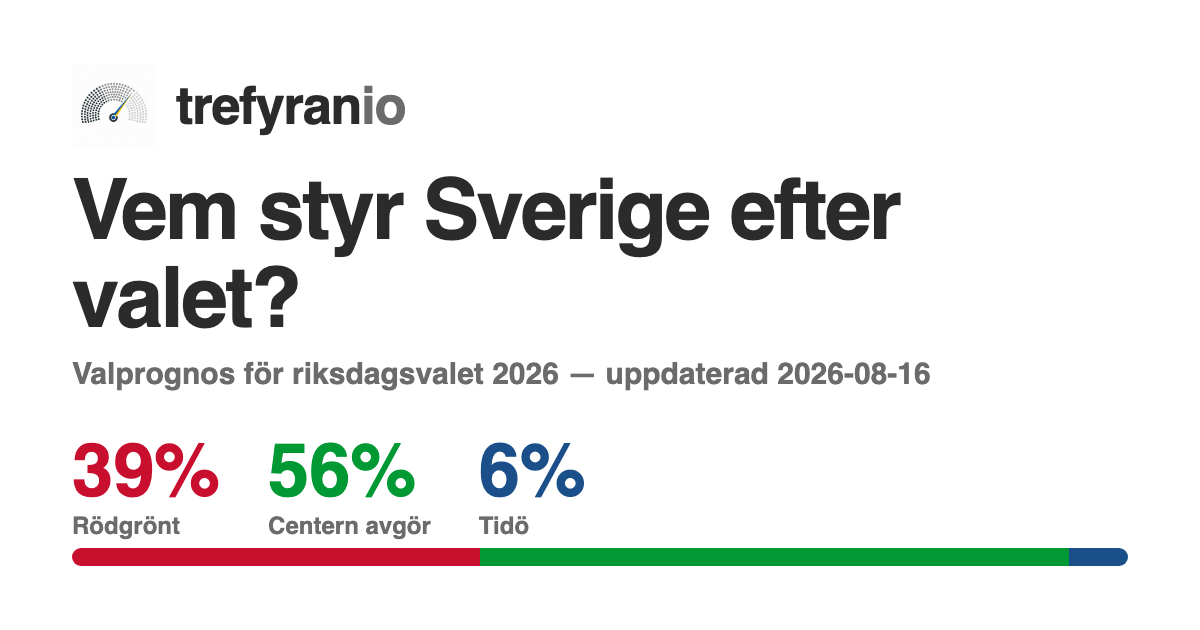
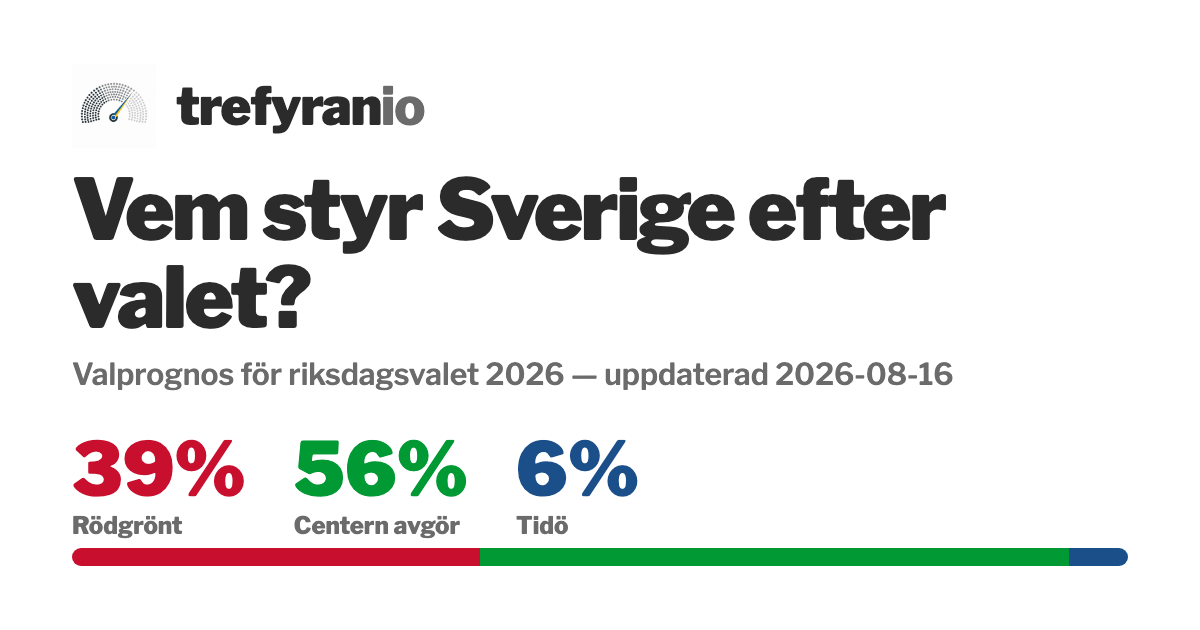
ops: count polls instead of comparing dates in the refresh guard
check_new_poll.py compared the latest field-end date against the live
forecast's, which silently skipped real polls. Novus and Sifo both ended
fieldwork on 2026-08-16; when Novus landed (n=5617) a day after Sifo was
published, the max date was unchanged and the guard said "nothing new". The
scheduled job would never have refit. Same failure whenever a lagging house
publishes a poll whose field-end is older than the newest already in the fit.

Diff on the count of cycle polls instead — it moves in every one of those
cases. web_export records it as counts.cycle_polls, computed over exactly the
rows model.py fits (cycle window, sample size present), so the guard cannot
drift from what a refit would see. A forecast.json predating the field exits 2
(undetermined) rather than guessing from dates; a shrinking spine (upstream
revision) exits 10 and asks for a human.

Also fixes the site's "latest poll" label: with a shared field-end, idxmax
picked whichever row came first, so the page credited Sifo while the
later-published Novus poll was in the fit. Tie-break on pub_date.

Tests cover the shared-field-end regression, back-filled older polls, polls
without a sample size (which the model drops), pre-cycle polls, a shrinking
spine, and the undetermined cases — plus an integration check that the
published count equals what the guard computes from the real spine.

Claude-Session: https://claude.ai/code/session_01DHY8yaE2K34i6RsauQvqzp

diff --git a/tests/test_check_new_poll.py b/tests/test_check_new_poll.py
@@ -1,0 +1,139 @@
+"""Tests for the scheduled-refresh guard (ops/check_new_poll.py).
+
+The guard decides whether the nightly job refits at all, so a false "nothing
+new" is invisible: the forecast just silently stops updating. These pin the
+cases that actually occur mid-campaign.
+"""
+
+import importlib.util
+import json
+from pathlib import Path
+
+import pandas as pd
+import pytest
+
+from trefyranio.model import CYCLE_2026
+
+REPO_ROOT = Path(__file__).resolve().parents[1]
+
+
+def _load_guard():
+    """Import ops/check_new_poll.py (a script, not a package module)."""
+    spec = importlib.util.spec_from_file_location(
+        "check_new_poll", REPO_ROOT / "ops" / "check_new_poll.py"
+    )
+    mod = importlib.util.module_from_spec(spec)
+    spec.loader.exec_module(mod)
+    return mod
+
+
+def _spine(tmp_path: Path, polls: list[tuple[str, str, float | None]]) -> Path:
+    """Write a minimal polls.parquet: [(poll_id, field_end, n), ...]."""
+    rows = [{"poll_id": pid, "field_end": pd.Timestamp(end),
+             "pub_date": pd.Timestamp(end), "n": n} for pid, end, n in polls]
+    processed = tmp_path / "processed"
+    processed.mkdir(parents=True, exist_ok=True)
+    pd.DataFrame(rows).to_parquet(processed / "polls.parquet", index=False)
+    return processed
+
+
+def _forecast(tmp_path: Path, counts: dict | None) -> Path:
+    path = tmp_path / "forecast.json"
+    body = {"updated": "2026-08-16"}
+    if counts is not None:
+        body["counts"] = counts
+    path.write_text(json.dumps(body))
+    return path
+
+
+def _run(tmp_path, spine_polls, live_counts):
+    guard = _load_guard()
+    guard.PROCESSED_DIR = _spine(tmp_path, spine_polls)
+    guard.FORECAST_JSON = _forecast(tmp_path, live_counts)
+    return guard.main()
+
+
+IN_CYCLE = str(CYCLE_2026.start)
+
+
+def test_new_poll_sharing_a_field_end_is_detected(tmp_path):
+    """Regression: Sifo and Novus both ended fieldwork 2026-08-16. The old
+    date-based guard saw an unchanged max date and skipped the Novus poll
+    entirely — the nightly job would never have refit."""
+    exit_code = _run(
+        tmp_path,
+        [("sifo", "2026-08-16", 3043.0), ("novus", "2026-08-16", 5617.0)],
+        {"cycle_polls": 1},   # live forecast was published with Sifo only
+    )
+    assert exit_code == 0
+
+
+def test_backfilled_older_poll_is_detected(tmp_path):
+    """A lagging house publishing a poll with an OLDER field-end than the
+    newest one already in the fit also left the max date untouched."""
+    exit_code = _run(
+        tmp_path,
+        [("newest", "2026-08-16", 3000.0), ("late_arrival", "2026-08-02", 1800.0)],
+        {"cycle_polls": 1},
+    )
+    assert exit_code == 0
+
+
+def test_nothing_new_skips(tmp_path):
+    exit_code = _run(tmp_path, [("a", "2026-08-16", 3000.0)], {"cycle_polls": 1})
+    assert exit_code == 10
+
+
+def test_polls_without_sample_size_are_not_counted(tmp_path):
+    """model.py drops polls with no n, so the guard must not count them —
+    otherwise it triggers a refit that changes nothing."""
+    exit_code = _run(
+        tmp_path,
+        [("a", "2026-08-16", 3000.0), ("no_n", "2026-08-18", None)],
+        {"cycle_polls": 1},
+    )
+    assert exit_code == 10
+
+
+def test_polls_before_the_cycle_are_not_counted(tmp_path):
+    exit_code = _run(
+        tmp_path,
+        [("a", "2026-08-16", 3000.0), ("old", "2019-05-05", 1000.0)],
+        {"cycle_polls": 1},
+    )
+    assert exit_code == 10
+
+
+def test_shrinking_spine_skips_rather_than_refitting(tmp_path):
+    """Upstream revision/retraction: fewer polls than published. Not new data,
+    and not something to publish automatically."""
+    exit_code = _run(tmp_path, [("a", "2026-08-16", 3000.0)], {"cycle_polls": 5})
+    assert exit_code == 10
+
+
+def test_forecast_without_cycle_polls_is_undetermined(tmp_path):
+    """A forecast.json predating the count must not be guessed at."""
+    assert _run(tmp_path, [("a", "2026-08-16", 3000.0)], {"polls": 2636}) == 2
+    assert _run(tmp_path, [("a", "2026-08-16", 3000.0)], None) == 2
+
+
+def test_missing_spine_is_undetermined(tmp_path):
+    guard = _load_guard()
+    guard.PROCESSED_DIR = tmp_path / "empty"
+    (tmp_path / "empty").mkdir()
+    guard.FORECAST_JSON = _forecast(tmp_path, {"cycle_polls": 1})
+    assert guard.main() == 2
+
+
+def test_live_forecast_records_the_count_the_model_fits():
+    """Integration: the published forecast's cycle_polls must equal what the
+    guard computes from the real spine, or the nightly job mis-triggers."""
+    parquet = REPO_ROOT / "data" / "processed" / "polls.parquet"
+    forecast = REPO_ROOT / "web" / "src" / "data" / "forecast.json"
+    if not (parquet.exists() and forecast.exists()):
+        pytest.skip("real spine / forecast not built")
+    guard = _load_guard()
+    live = (json.loads(forecast.read_text()).get("counts") or {}).get("cycle_polls")
+    if live is None:
+        pytest.skip("forecast.json predates cycle_polls")
+    assert guard.spine_cycle_polls() == live

diff --git a/ops/check_new_poll.py b/ops/check_new_poll.py
@@ -1,14 +1,27 @@
 #!/usr/bin/env python3
-"""Guard for the scheduled refresh: is there a poll newer than what's live?
+"""Guard for the scheduled refresh: is there a poll the live forecast doesn't have?
 
-Compares the latest 2026-cycle poll in the freshly-built polls.parquet against
-the ``latest_poll.date`` recorded in the committed forecast (web/src/data/
-forecast.json — the same value served publicly).
+Compares the number of 2026-cycle polls in the freshly-built polls.parquet
+against ``counts.cycle_polls`` recorded in the committed forecast
+(web/src/data/forecast.json — the same value served publicly).
+
+**Why a count and not a date.** This used to compare the latest field-end date,
+which silently skipped real polls: Novus and Sifo both ended fieldwork on
+2026-08-16, so when Novus landed a day after Sifo was published the max date was
+unchanged and the guard said "nothing new" — the scheduled job would never have
+refit. Same failure when a lagging house publishes a poll whose field-end is
+*older* than the newest one already in the fit. A count moves in every one of
+those cases; a max-date does not.
+
+The count is over exactly the rows the model fits (cycle start onward, ``n``
+present — model.py drops polls without a sample size), so it cannot drift from
+what a refit would actually see.
 
 Exit codes (so a shell `if` can branch on it):
-  0  — a newer poll exists → the caller should refit/simulate/deploy
-  10 — no new poll → the caller should stop (don't waste ~10 min refitting)
-  2  — could not determine (missing parquet/json) → caller decides
+  0  — the spine has polls the live forecast lacks → refit/simulate/deploy
+  10 — nothing new → stop (don't waste a refit reproducing the same numbers)
+  2  — could not determine (missing parquet/json, or a forecast.json predating
+       cycle_polls) → caller decides
 
 Run build_polls first so polls.parquet reflects the latest fetch.
 """
@@ -26,40 +39,53 @@ REPO_ROOT = Path(__file__).resolve().parents[1]
 FORECAST_JSON = REPO_ROOT / "web" / "src" / "data" / "forecast.json"
 
 
-def latest_cycle_poll_date() -> pd.Timestamp | None:
+def spine_cycle_polls() -> int | None:
+    """Number of cycle polls the model would fit, or None if unavailable."""
     parquet = PROCESSED_DIR / "polls.parquet"
     if not parquet.exists():
         return None
     p = pd.read_parquet(parquet)
     # field-end is the poll's true recency; fall back to pub_date when absent.
-    d = p["field_end"].fillna(p["pub_date"])
-    cycle = d.dt.date >= CYCLE_2026.start
-    if not cycle.any():
+    date = p["field_end"].fillna(p["pub_date"])
+    # Mirror model.py's filter: cycle window AND a usable sample size.
+    cycle = p[(date.dt.date >= CYCLE_2026.start) & p["n"].notna()]
+    if cycle.empty:
         return None
-    return pd.Timestamp(d[cycle].max())
+    return int(cycle["poll_id"].nunique())
 
 
-def live_forecast_date() -> pd.Timestamp | None:
+def live_cycle_polls() -> int | None:
+    """Cycle-poll count recorded in the published forecast, or None."""
     if not FORECAST_JSON.exists():
         return None
     fc = json.loads(FORECAST_JSON.read_text())
-    date = (fc.get("latest_poll") or {}).get("date")
-    return pd.Timestamp(date) if date else None
+    return (fc.get("counts") or {}).get("cycle_polls")
 
 
 def main() -> int:
-    latest = latest_cycle_poll_date()
-    live = live_forecast_date()
-    if latest is None:
+    spine = spine_cycle_polls()
+    live = live_cycle_polls()
+
+    if spine is None:
         print("check_new_poll: no cycle polls in polls.parquet (build_polls first?)")
         return 2
     if live is None:
-        print(f"check_new_poll: no live forecast date on record; latest poll {latest.date()}")
-        return 0  # treat as "refresh" — nothing published yet
-    if latest.date() > live.date():
-        print(f"check_new_poll: NEW poll {latest.date()} > live {live.date()} → refresh")
+        # Either nothing published yet, or a forecast.json written before
+        # cycle_polls existed. Don't guess from dates — say so and let the
+        # caller decide; one manual refresh re-records the count.
+        print("check_new_poll: live forecast has no counts.cycle_polls on record "
+              f"(spine has {spine}) → cannot compare")
+        return 2
+    if spine > live:
+        print(f"check_new_poll: {spine - live} new poll(s) — spine {spine} > live {live} → refresh")
         return 0
-    print(f"check_new_poll: latest poll {latest.date()} not newer than live {live.date()} → skip")
+    if spine < live:
+        # The spine lost polls relative to what was published: an upstream
+        # revision or retraction. Not a "new poll", but not normal either.
+        print(f"check_new_poll: spine {spine} < live {live} — upstream dropped "
+              "poll(s)? → skip, investigate by hand")
+        return 10
+    print(f"check_new_poll: {spine} cycle polls, same as live → skip")
     return 10
 
 

diff --git a/src/trefyranio/web_export.py b/src/trefyranio/web_export.py
@@ -90,7 +90,7 @@ def build_forecast(as_of: str, weeks_to_go: int, counts: dict, latest_poll: dict
         "election_day": gov.get("election_day", "2026-09-13"),
         "weeks_to_go": weeks_to_go,
         "majority": MAJORITY,
-        "counts": counts,            # {polls, elections, sims}
+        "counts": counts,            # {polls, elections, sims, cycle_polls}
         "latest_poll": latest_poll,  # {pollster, date}
         "government": {
             "right": gov["p_right_majority"],
@@ -227,8 +227,16 @@ def build() -> None:
     n_elections = int(results["election_year"].nunique())
     gov = json.loads((PROCESSED_DIR / "government_forecast.json").read_text())
     n_sim = int(gov.get("n_sim", 0))
-    latest = cycle.loc[cycle["date"].idxmax()]
-    counts = {"polls": n_polls, "elections": n_elections, "sims": n_sim}
+    # Tie-break on pub_date: two houses often share a field-end (Sifo and Novus
+    # both ended 2026-08-16), and idxmax picks whichever row came first, which
+    # labelled the site with the older-published of the two.
+    latest = cycle.sort_values(["date", "pub_date"]).iloc[-1]
+    # cycle_polls is what the scheduled refresh diffs on — the *count* of polls
+    # in the fit, not the latest date. A new poll sharing a field-end with the
+    # published one (or back-filled with an older one) moves the count but not
+    # the max date, and the date-only guard skipped exactly that case.
+    counts = {"polls": n_polls, "elections": n_elections, "sims": n_sim,
+              "cycle_polls": int(cycle["poll_id"].nunique())}
     latest_poll = {"pollster": str(latest["pollster"]), "date": latest["date"].strftime("%Y-%m-%d")}
 
     WEB_DATA_DIR.mkdir(parents=True, exist_ok=True)
